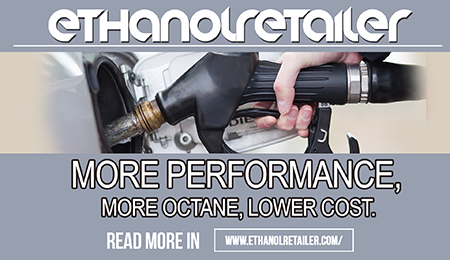
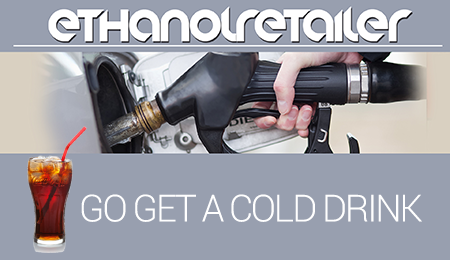
edu 2

Changed region(s): [[0.0622, 0.5538, 0.9333, 0.9846], [0.1556, 0.4923, 0.1867, 0.5538]]

diff --git a/_source/gas-stations.html b/_source/gas-stations.html
@@ -238,14 +238,14 @@
             </div>
             <div class="col-md-1"></div>
             <div class="col-md-5"> 
-            	<img  src="../_images/cats/gas02.png" class="img-responsive img-shadow" >
+            	<img  src="../_images/cats/facebooktwitter.png" class="img-responsive img-shadow" >
             </div>
             
         </div> 
     	<hr> 
         <div class="row dnt3-text-menu" id="item3"> 
         	<div class="col-md-5"> 
-            	<img  src="../_images/cats/gas03.png" class="img-responsive img-shadow" >
+            	<img  src="../_images/cats/gas04.png" class="img-responsive img-shadow" >
             </div>
             <div class="col-md-1"></div>
             <div class="col-md-6"> 
@@ -258,18 +258,21 @@
         <div class="row dnt3-text-menu" id="item4"> 
         	<div class="col-md-6"> 
             	<h4>Answer Questions</h4>
-                <p>As your customers stand in the line at your gas station, there are only so many items they can see from their position in front of the counter. For example, beer is one that they can’t view if they don’t walk to the cooler themselves. That customer may not even know what different kinds of beverages your convenience store has when they first step inside. But, with your new digital signage, an icy cold drink on the huge, attractive display will make their thirsty palate crave one!</p>
+                <p>As your customers stand in the line at your gas station, there are only so many items they can see from their position in front of the counter.
+                    For example, a cold drink is one that they can’t view if they don’t walk to the cooler themselves.
+                    That customer may not even know what different kinds of beverages your convenience store has when they first step inside.
+                    But, with your new digital signage, an icy cold drink on the huge, attractive display will make their thirsty palate crave one!</p>
             </div>
             <div class="col-md-1"></div>
             <div class="col-md-5"> 
-            	<img  src="../_images/cats/gas04.png" class="img-responsive img-shadow" >
+            	<img  src="../_images/cats/gas03.png" class="img-responsive img-shadow" >
             </div>
             
         </div> 
     	<hr>
         <div class="row dnt3-text-menu" id="item5"> 
         	<div class="col-md-5"> 
-            	<img  src="../_images/cats/gas05.png" class="img-responsive img-shadow" >
+            	<img  src="../_images/cats/navigate.png" class="img-responsive img-shadow" >
             </div>
             <div class="col-md-1"></div>
             <div class="col-md-6"> 

diff --git a/_source/supermarkets.html b/_source/supermarkets.html
@@ -219,7 +219,7 @@
     
     	<div class="row dnt3-text-menu" id="item1"> 
         	<div class="col-md-5"> 
-            	<img  src="../_images/dt-menu1.jpg" class="img-responsive img-shadow" >
+            	<img  src="../_images/cats/super001.png" class="img-responsive img-shadow" >
             </div>
             <div class="col-md-1"></div>
             <div class="col-md-6"> 
@@ -238,14 +238,14 @@
             </div>
             <div class="col-md-1"></div>
             <div class="col-md-5"> 
-            	<img  src="../_images/dt-menu2.jpg" class="img-responsive img-shadow" >
+            	<img  src="../_images/cats/super002.png" class="img-responsive img-shadow" >
             </div>
             
         </div> 
     	<hr> 
         <div class="row dnt3-text-menu" id="item3"> 
         	<div class="col-md-5"> 
-            	<img  src="../_images/dt-menu3.jpg" class="img-responsive img-shadow" >
+            	<img  src="../_images/cats/weather01.png" class="img-responsive img-shadow" >
             </div>
             <div class="col-md-1"></div>
             <div class="col-md-6"> 
@@ -263,14 +263,14 @@
             </div>
             <div class="col-md-1"></div>
             <div class="col-md-5"> 
-            	<img  src="../_images/dt-menu4.jpg" class="img-responsive img-shadow" >
+            	<img  src="../_images/cats/super003.png" class="img-responsive img-shadow" >
             </div>
             
         </div> 
     	<hr>
         <div class="row dnt3-text-menu" id="item5"> 
         	<div class="col-md-5"> 
-            	<img  src="../_images/dt-menu5.jpg" class="img-responsive img-shadow" >
+            	<img  src="../_images/cats/super004.png" class="img-responsive img-shadow" >
             </div>
             <div class="col-md-1"></div>
             <div class="col-md-6"> 

diff --git a/_source/technology-menu.html b/_source/technology-menu.html
@@ -219,7 +219,7 @@
     
     	<div class="row dnt3-text-menu" id="item1"> 
         	<div class="col-md-5"> 
-            	<img  src="../_images/dt-menu1.jpg" class="img-responsive img-shadow" >
+            	<img  src="../_images/cats/tech02.png" class="img-responsive img-shadow" >
             </div>
             <div class="col-md-1"></div>
             <div class="col-md-6"> 
@@ -238,14 +238,14 @@
             </div>
             <div class="col-md-1"></div>
             <div class="col-md-5"> 
-            	<img  src="../_images/dt-menu2.jpg" class="img-responsive img-shadow" >
+            	<img  src="../_images/cats/tech03.png" class="img-responsive img-shadow" >
             </div>
             
         </div> 
     	<hr> 
         <div class="row dnt3-text-menu" id="item3"> 
         	<div class="col-md-5"> 
-            	<img  src="../_images/dt-menu3.jpg" class="img-responsive img-shadow" >
+            	<img  src="../_images/cats/tech01.png" class="img-responsive img-shadow" >
             </div>
             <div class="col-md-1"></div>
             <div class="col-md-6"> 
@@ -262,14 +262,14 @@
             </div>
             <div class="col-md-1"></div>
             <div class="col-md-5"> 
-            	<img  src="../_images/dt-menu4.jpg" class="img-responsive img-shadow" >
+            	<img  src="../_images/cats/tech04.png" class="img-responsive img-shadow" >
             </div>
             
         </div> 
     	<hr>
         <div class="row dnt3-text-menu" id="item5"> 
         	<div class="col-md-5"> 
-            	<img  src="../_images/dt-menu5.jpg" class="img-responsive img-shadow" >
+            	<img  src="../_images/cats/tech05.png" class="img-responsive img-shadow" >
             </div>
             <div class="col-md-1"></div>
             <div class="col-md-6"> 

diff --git a/_source/transportation.html b/_source/transportation.html
@@ -219,7 +219,7 @@
     
     	<div class="row dnt3-text-menu" id="item1"> 
         	<div class="col-md-5"> 
-            	<img  src="../_images/cats/automotive1.png" class="img-responsive img-shadow" >
+            	<img  src="../_images/cats/trans3.png" class="img-responsive img-shadow" >
             </div>
             <div class="col-md-1"></div>
             <div class="col-md-6"> 
@@ -238,14 +238,14 @@
             </div>
             <div class="col-md-1"></div>
             <div class="col-md-5"> 
-            	<img  src="../_images/cats/automotive2.png" class="img-responsive img-shadow" >
+            	<img  src="../_images/cats/trans6.png" class="img-responsive img-shadow" >
             </div>
             
         </div> 
     	<hr> 
         <div class="row dnt3-text-menu" id="item3"> 
         	<div class="col-md-5"> 
-            	<img  src="../_images/cats/automotive3.png" class="img-responsive img-shadow" >
+            	<img  src="../_images/cats/trans4.png" class="img-responsive img-shadow" >
             </div>
             <div class="col-md-1"></div>
             <div class="col-md-6"> 
@@ -269,7 +269,7 @@
     	<hr>
         <div class="row dnt3-text-menu" id="item5"> 
         	<div class="col-md-5"> 
-            	<img  src="../_images/dt-menu5.jpg" class="img-responsive img-shadow" >
+            	<img  src="../_images/cats/tran8.png" class="img-responsive img-shadow" >
             </div>
             <div class="col-md-1"></div>
             <div class="col-md-6"> 

diff --git a/_source/retail.html b/_source/retail.html
@@ -219,7 +219,7 @@
     
     	<div class="row dnt3-text-menu" id="item1"> 
         	<div class="col-md-5"> 
-            	<img  src="../_images/cats/retail1.png" class="img-responsive img-shadow" >
+            	<img  src="../_images/cats/social1.png" class="img-responsive img-shadow" >
             </div>
             <div class="col-md-1"></div>
             <div class="col-md-6"> 
@@ -238,14 +238,14 @@
             </div>
             <div class="col-md-1"></div>
             <div class="col-md-5"> 
-            	<img  src="../_images/dt-menu2.jpg" class="img-responsive img-shadow" >
+            	<img  src="../_images/cats/sports.png" class="img-responsive img-shadow" >
             </div>
             
         </div> 
     	<hr> 
         <div class="row dnt3-text-menu" id="item3"> 
         	<div class="col-md-5"> 
-            	<img  src="../_images/dt-menu3.jpg" class="img-responsive img-shadow" >
+            	<img  src="../_images/cats/retal01.png" class="img-responsive img-shadow" >
             </div>
             <div class="col-md-1"></div>
             <div class="col-md-6"> 
@@ -262,7 +262,7 @@
             </div>
             <div class="col-md-1"></div>
             <div class="col-md-5"> 
-            	<img  src="../_images/dt-menu4.jpg" class="img-responsive img-shadow" >
+            	<img  src="../_images/cats/retail4.png" class="img-responsive img-shadow" >
             </div>
             
         </div> 

diff --git a/_source/financial-institutions.html b/_source/financial-institutions.html
@@ -238,7 +238,7 @@
             </div>
             <div class="col-md-1"></div>
             <div class="col-md-5"> 
-            	<img  src="../_images/cats/financ02.png" class="img-responsive img-shadow" >
+            	<img  src="../_images/cats/finance04.png" class="img-responsive img-shadow" >
             </div>
             
         </div> 
@@ -262,14 +262,14 @@
             </div>
             <div class="col-md-1"></div>
             <div class="col-md-5"> 
-            	<img  src="../_images/cats/finance04.png" class="img-responsive img-shadow" >
+            	<img  src="../_images/cats/finance05.png" class="img-responsive img-shadow" >
             </div>
             
         </div> 
     	<hr>
         <div class="row dnt3-text-menu" id="item5"> 
         	<div class="col-md-5"> 
-            	<img  src="../_images/cats/financ05.png" class="img-responsive img-shadow" >
+            	<img  src="../_images/cats/finance07.png" class="img-responsive img-shadow" >
             </div>
             <div class="col-md-1"></div>
             <div class="col-md-6"> 

diff --git a/_source/hospitality.html b/_source/hospitality.html
@@ -246,7 +246,7 @@
     	<hr> 
         <div class="row dnt3-text-menu" id="item3"> 
         	<div class="col-md-5"> 
-            	<img  src="../_images/dt-menu3.jpg" class="img-responsive img-shadow" >
+            	<img  src="../_images/cats/instagram.png" class="img-responsive img-shadow" >
             </div>
             <div class="col-md-1"></div>
             <div class="col-md-6"> 

diff --git a/_source/healthcare.html b/_source/healthcare.html
@@ -261,7 +261,7 @@
             </div>
             <div class="col-md-1"></div>
             <div class="col-md-5"> 
-            	<img  src="../_images/cats/Health01.png" class="img-responsive img-shadow" >
+            	<img  src="../_images/cats/weather01.png" class="img-responsive img-shadow" >
             </div>
             
         </div> 
